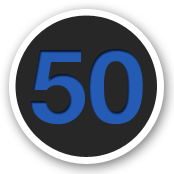
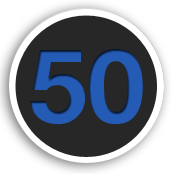
Tasks totals + jpg -> png

diff --git a/app/public/wall/js/wall.knockout.js b/app/public/wall/js/wall.knockout.js
@@ -213,6 +213,12 @@ $(document).ready(function () {
 			});
 		};
 
+		this.completedCount = ko.computed(function() {
+			return ko.utils.arrayFilter(self.tasks(), function(task) {
+				return task.completed();
+			}).length;
+		});
+
 		this.completedTasks = ko.computed(function() {
 			var d = ko.utils.arrayFilter(self.tasks(), function(task) {
 				return task.completed();

diff --git a/app/public/wall/css/wall.css b/app/public/wall/css/wall.css
@@ -268,7 +268,7 @@ hr {
 
 /* Sidepanel */
 #task_sidepanel {
-  width: 855px;
+  width: 854px;
   height: 780px;
   float: left;
   padding-left: 60px;
@@ -314,6 +314,10 @@ hr {
   text-align: center;
   float: left;
   width: 855px;
+}
+
+.inline {
+  display: inline-block;
 }
 
 /* -------------------------------------

diff --git a/app/public/wall/js/wall.kinect.js b/app/public/wall/js/wall.kinect.js
@@ -71,7 +71,7 @@
 		if( count[ 0 ] !== 0 )
 			return false;
 			
-		if( count[ 1 ] === true )
+		if( count[ 2 ] === true )
 		{
 			setTimeout(function() {
 				window.location="/home";

diff --git a/app/public/desktop/js/tasks.knockout.js b/app/public/desktop/js/tasks.knockout.js
@@ -128,7 +128,6 @@
 			});
 			return d;
 		});
-
 	};
 
 	var tasksvm = new TasksViewModel();
